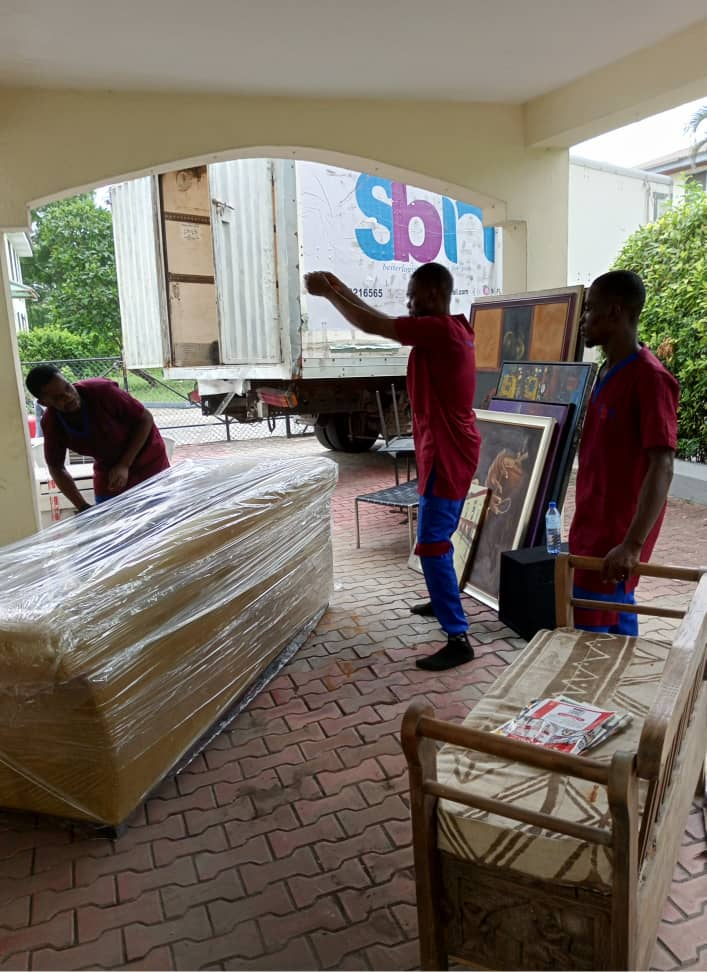
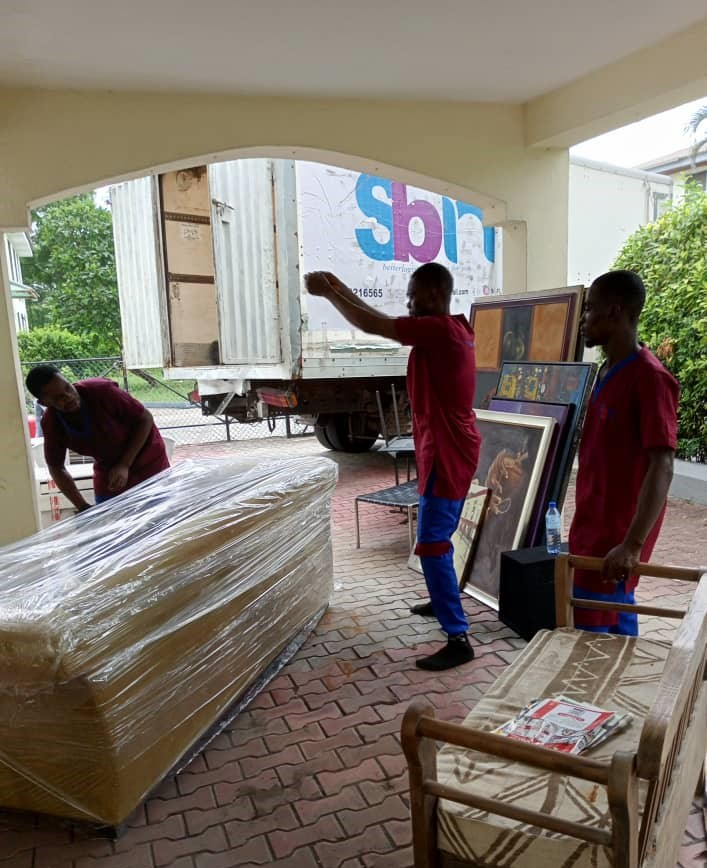
Add: loader animation

diff --git a/src/layout/footer.jsx b/src/layout/footer.jsx
@@ -1,144 +1,4 @@
-// import { Link } from "react-router-dom";
-// import {
-//   Phone,
-//   MapPin,
-//   MessageCircle,
-//   CircleArrowUp
-// //   Instagram,
-// //   Facebook,
-// } from "lucide-react";
 
-// export default function Footer() {
-//   return (
-//     <footer className="bg-primary text-white relative overflow-hidden">
-
-//       {/* Subtle Top Glow */}
-//       <div className="absolute inset-x-0 top-0 h-24 bg-linear-to-b from-white/10 to-transparent pointer-events-none" />
-
-//       <div className="max-w-6xl mx-auto px-4 sm:px-6 lg:px-8 py-14 grid gap-10 grid-cols-1 sm:grid-cols-2 md:grid-cols-3">
-
-//         {/* Brand */}
-//         <div>
-//           <img src="/images/logo.png" alt="SBN Movers logo" className="w-12 mb-4" />
-
-//           <p className="text-sm text-gray-300 mb-6 leading-relaxed">
-//             Reliable logistics and relocation services across Nigeria.
-//             We move your world safely, efficiently, and stress-free.
-//           </p>
-
-//           {/* Socials */}
-//           <div className="flex gap-4">
-//             <a
-//               href="https://instagram.com/sbn_movers"
-//               target="_blank"
-//               rel="noreferrer"
-//               className="p-2 rounded-full bg-white/10 hover:bg-white/20 transition"
-//             >
-//               {/* <Instagram size={18} /> */}
-//             </a>
-
-//             <a
-//               href="https://facebook.com/sbn_movers"
-//               target="_blank"
-//               rel="noreferrer"
-//               className="p-2 rounded-full bg-white/10 hover:bg-white/20 transition"
-//             >
-//               {/* <Facebook size={18} /> */}
-//             </a>
-//           </div>
-//         </div>
-
-//         {/* Navigation */}
-//         <div>
-//           <h3 className="font-semibold mb-5 text-white">Quick Links</h3>
-
-//           <div className="flex flex-col gap-3 text-gray-300 text-sm">
-//             {[
-//               { name: "Home", path: "/" },
-//               { name: "About", path: "/about" },
-//               { name: "Contact", path: "/contact" },
-//             ].map((link) => (
-//               <Link
-//                 key={link.name}
-//                 to={link.path}
-//                 className="flex items-center justify-between group hover:text-white transition"
-//               >
-//                 {link.name}
-               
-//               </Link>
-//             ))}
-//           </div>
-//         </div>
-
-//         {/* Contact Info */}
-//         <div>
-//           <h3 className="font-semibold mb-5 text-white">Contact</h3>
-
-//           <div className="text-sm text-gray-300 space-y-5">
-
-//             {/* Phone */}
-//             <div className="flex items-start gap-3">
-//               <Phone size={18} className="mt-1 text-white" />
-//               <a
-//                 href="tel:08169216565"
-//                 className="hover:text-white transition"
-//               >
-//                 08169216565
-//               </a>
-//             </div>
-
-//             {/* WhatsApp */}
-//             <div className="flex items-start gap-3">
-//               <MessageCircle size={18} className="mt-1 text-white" />
-//               <a
-//                 href="https://wa.me/2348169216565?text=Hello%20I%20need%20a%20moving%20service"
-//                 target="_blank"
-//                 rel="noreferrer"
-//                 className="hover:text-white transition"
-//               >
-//                 Chat on WhatsApp
-//               </a>
-//             </div>
-
-//             {/* Address */}
-//             <div className="flex items-start gap-3">
-//               <MapPin size={18} className="mt-1 text-white" />
-//               <p className="leading-relaxed">
-//                 km 20 Lekki-Epe Expressway,
-//                 <br />
-//                 beside Oral Estate, Lekki, Lagos
-//               </p>
-//             </div>
-
-//           </div>
-//         </div>
-//       </div>
-
-//       {/* Divider */}
-//       <div className="border-t border-white/10" />
-
-//       {/* Bottom Bar */}
-//       <div className="max-w-6xl mx-auto px-4 sm:px-6 py-6 flex flex-col sm:flex-row items-center justify-between text-sm text-gray-300 gap-4">
-
-//         <p>
-//           © {new Date().getFullYear()} SBN Movers. All rights reserved.
-//         </p>
-
-//         {/* Back to top */}
-//         <button
-//           onClick={() => window.scrollTo({ top: 0, behavior: "smooth" })}
-//           className="
-//             flex items-center gap-2
-//             hover:text-white transition
-//           "
-//         >
-//           Back To Top <CircleArrowUp/>
-//         </button>
-
-//       </div>
-//     </footer>
-//   );
-// }
 
 
 

diff --git a/src/components/ui/loader.jsx b/src/components/ui/loader.jsx
@@ -11,7 +11,7 @@ export default function Loader() {
       setExit(true);
 
       // Wait for animation before removing loader
-      setTimeout(() => setLoading(false), 900);
+      setTimeout(() => setLoading(false), 1000);
     }, 2000);
 
     return () => clearTimeout(timer);
@@ -26,8 +26,8 @@ export default function Loader() {
         initial={{ opacity: 1 }}
         animate={{ opacity: 1 }}
         exit={{ opacity: 0 }}
-        transition={{ duration: 0.4 }}
-        className="fixed inset-0 bg-white z-[999] flex items-center justify-center overflow-hidden"
+        transition={{ duration: 1 }}
+        className="fixed inset-0 bg-white z-999 flex items-center justify-center overflow-hidden"
       >
         {/* Truck */}
         <motion.div
@@ -57,7 +57,7 @@ export default function Loader() {
           }
           className="text-primary"
         >
-          <Truck size={70} strokeWidth={2.5} />
+          <Truck size={70} className="text-red-800" strokeWidth={2.5} />
         </motion.div>
       </motion.div>
     </AnimatePresence>
